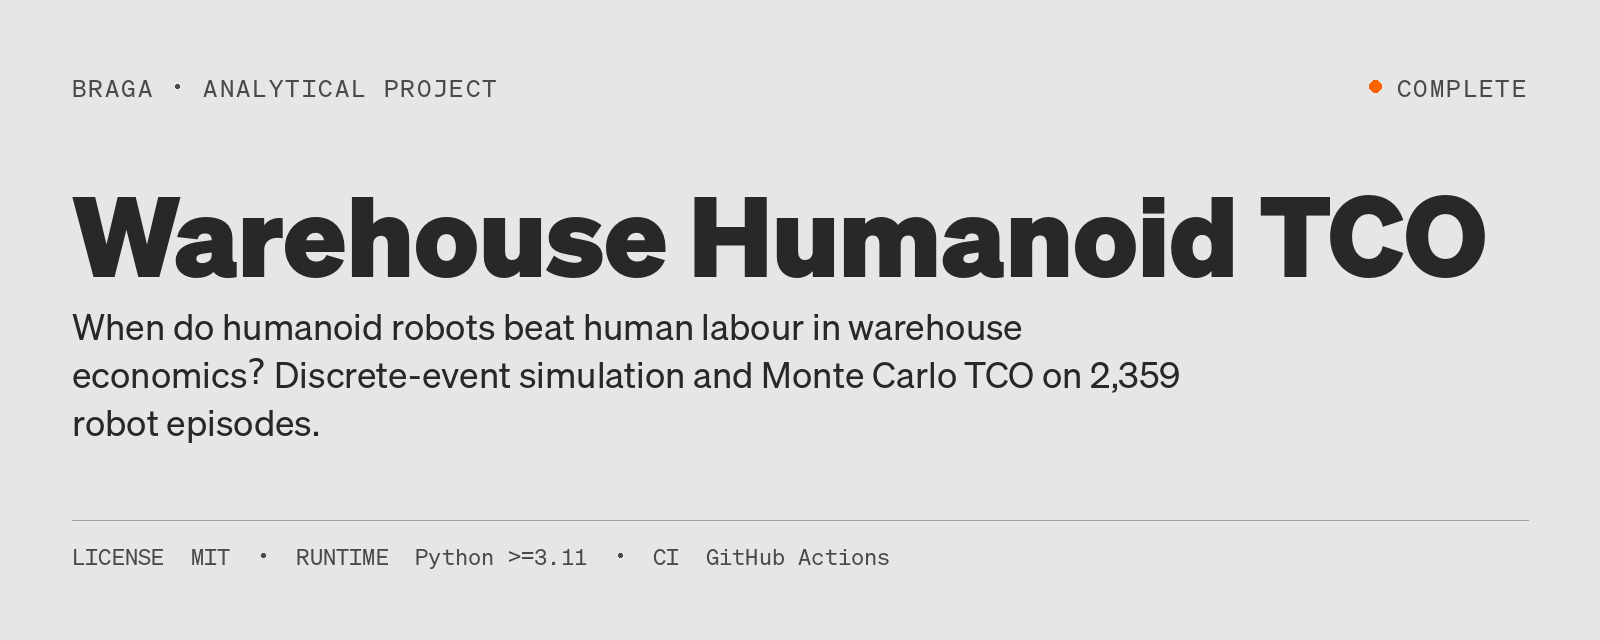
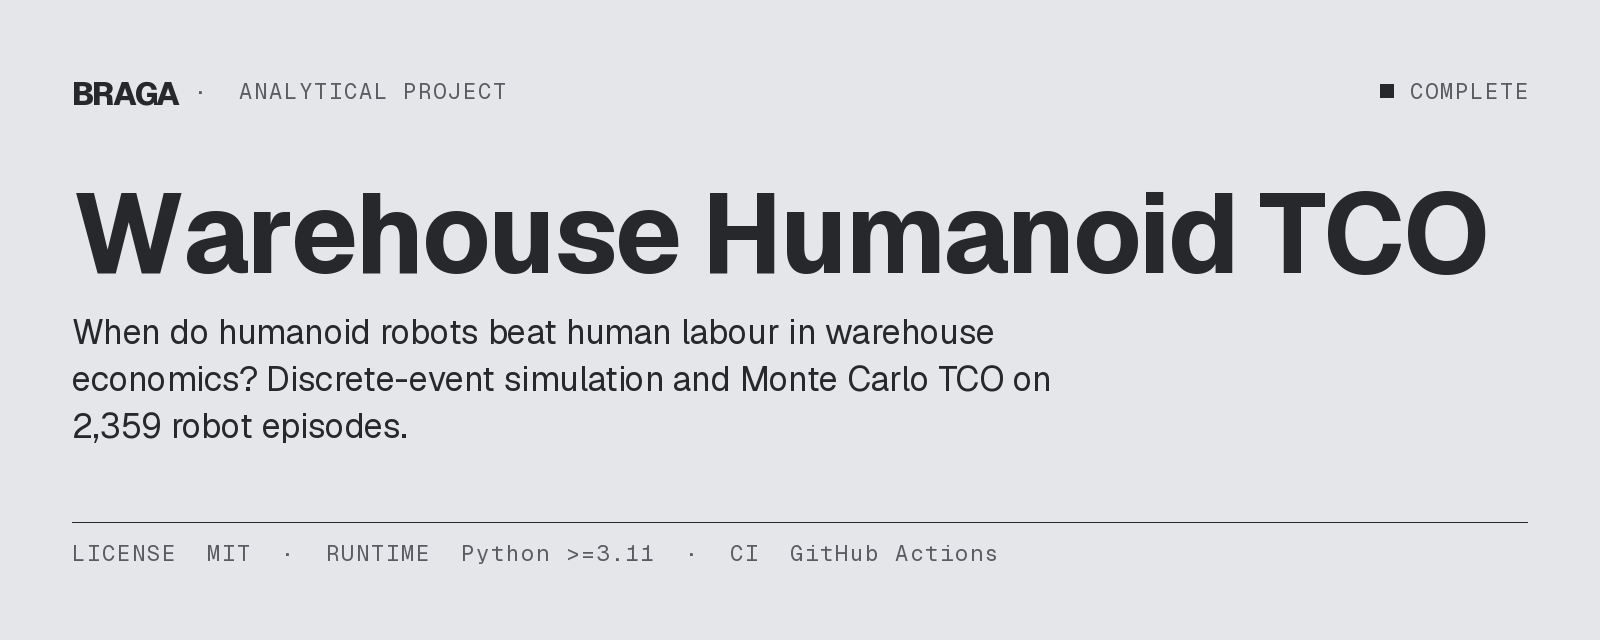
README on the Braga design system v2.1
Banner regenerated on design system v2.1 (BKribitz, status square, no
accent; D-051), shields badges in the neutrals (D-054), Mermaid diagrams
on the site's theme (D-052). Applied by braga-portfolio-docs
`python -m readme_quality fix`; the graph and the prose are unchanged.

Claude-Session: https://claude.ai/code/session_017JXfGqfFadubVauUqq2nZv

diff --git a/README.md b/README.md
@@ -4,10 +4,10 @@
 
 [![CI](https://github.com/RafaelBraga-Kribitz/warehouse_humanoid_tco/actions/workflows/ci.yml/badge.svg)](https://github.com/RafaelBraga-Kribitz/warehouse_humanoid_tco/actions/workflows/ci.yml)
 [![Reproducibility](https://github.com/RafaelBraga-Kribitz/warehouse_humanoid_tco/actions/workflows/reproducibility.yml/badge.svg)](https://github.com/RafaelBraga-Kribitz/warehouse_humanoid_tco/actions/workflows/reproducibility.yml)
-[![Python 3.11+](https://img.shields.io/badge/python-3.11+-blue)](https://www.python.org/downloads/release/python-3110/)
-[![License: MIT](https://img.shields.io/badge/license-MIT-green.svg)](LICENSE)
-[![Governance Audited](https://img.shields.io/badge/governance-audited-brightgreen)](governance/AUDIT_PROCEDURE.md)
-[![Status: Complete](https://img.shields.io/badge/status-Complete-brightgreen)](#status)
+[![Python 3.11+](https://img.shields.io/badge/python-3.11+-5A5C61?labelColor=26282C)](https://www.python.org/downloads/release/python-3110/)
+[![License: MIT](https://img.shields.io/badge/license-MIT-5A5C61?labelColor=26282C)](LICENSE)
+[![Governance Audited](https://img.shields.io/badge/governance-audited-5A5C61?labelColor=26282C)](governance/AUDIT_PROCEDURE.md)
+[![Status: Complete](https://img.shields.io/badge/status-Complete-5A5C61?labelColor=26282C)](#status)
 
 **Status:** Complete
 
@@ -100,6 +100,33 @@ The source data are household demonstrations: plates-into-dishwasher, pillow pic
 ## Architecture
 
 ```mermaid
+%%{init: {
+  "theme": "base",
+  "fontFamily": "BKribitz, system-ui, -apple-system, Segoe UI, Helvetica, Arial, sans-serif",
+  "themeVariables": {
+    "background": "#E4E6EA",
+    "primaryColor": "#DCDEE2",
+    "primaryTextColor": "#26282C",
+    "primaryBorderColor": "#26282C",
+    "secondaryColor": "#E4E6EA",
+    "secondaryTextColor": "#26282C",
+    "secondaryBorderColor": "#5A5C61",
+    "tertiaryColor": "#E4E6EA",
+    "tertiaryTextColor": "#26282C",
+    "tertiaryBorderColor": "#C2C4CA",
+    "lineColor": "#5A5C61",
+    "textColor": "#26282C",
+    "mainBkg": "#DCDEE2",
+    "nodeBorder": "#26282C",
+    "clusterBkg": "#E4E6EA",
+    "clusterBorder": "#C2C4CA",
+    "edgeLabelBackground": "#E4E6EA",
+    "titleColor": "#26282C",
+    "fontFamily": "BKribitz, system-ui, -apple-system, Segoe UI, Helvetica, Arial, sans-serif",
+    "fontSize": "14px"
+  },
+  "flowchart": { "curve": "linear", "htmlLabels": true, "padding": 8 }
+}}%%
 flowchart TD
     U["UnifoLM episodes<br/>2,359 · VERIFIED"] --> M1["Module 1<br/>capability extraction<br/>cycle times, taxonomy"]
     KV["Austrian KV wages,<br/>capex assumptions<br/>CALIBRATED"] --> M3
